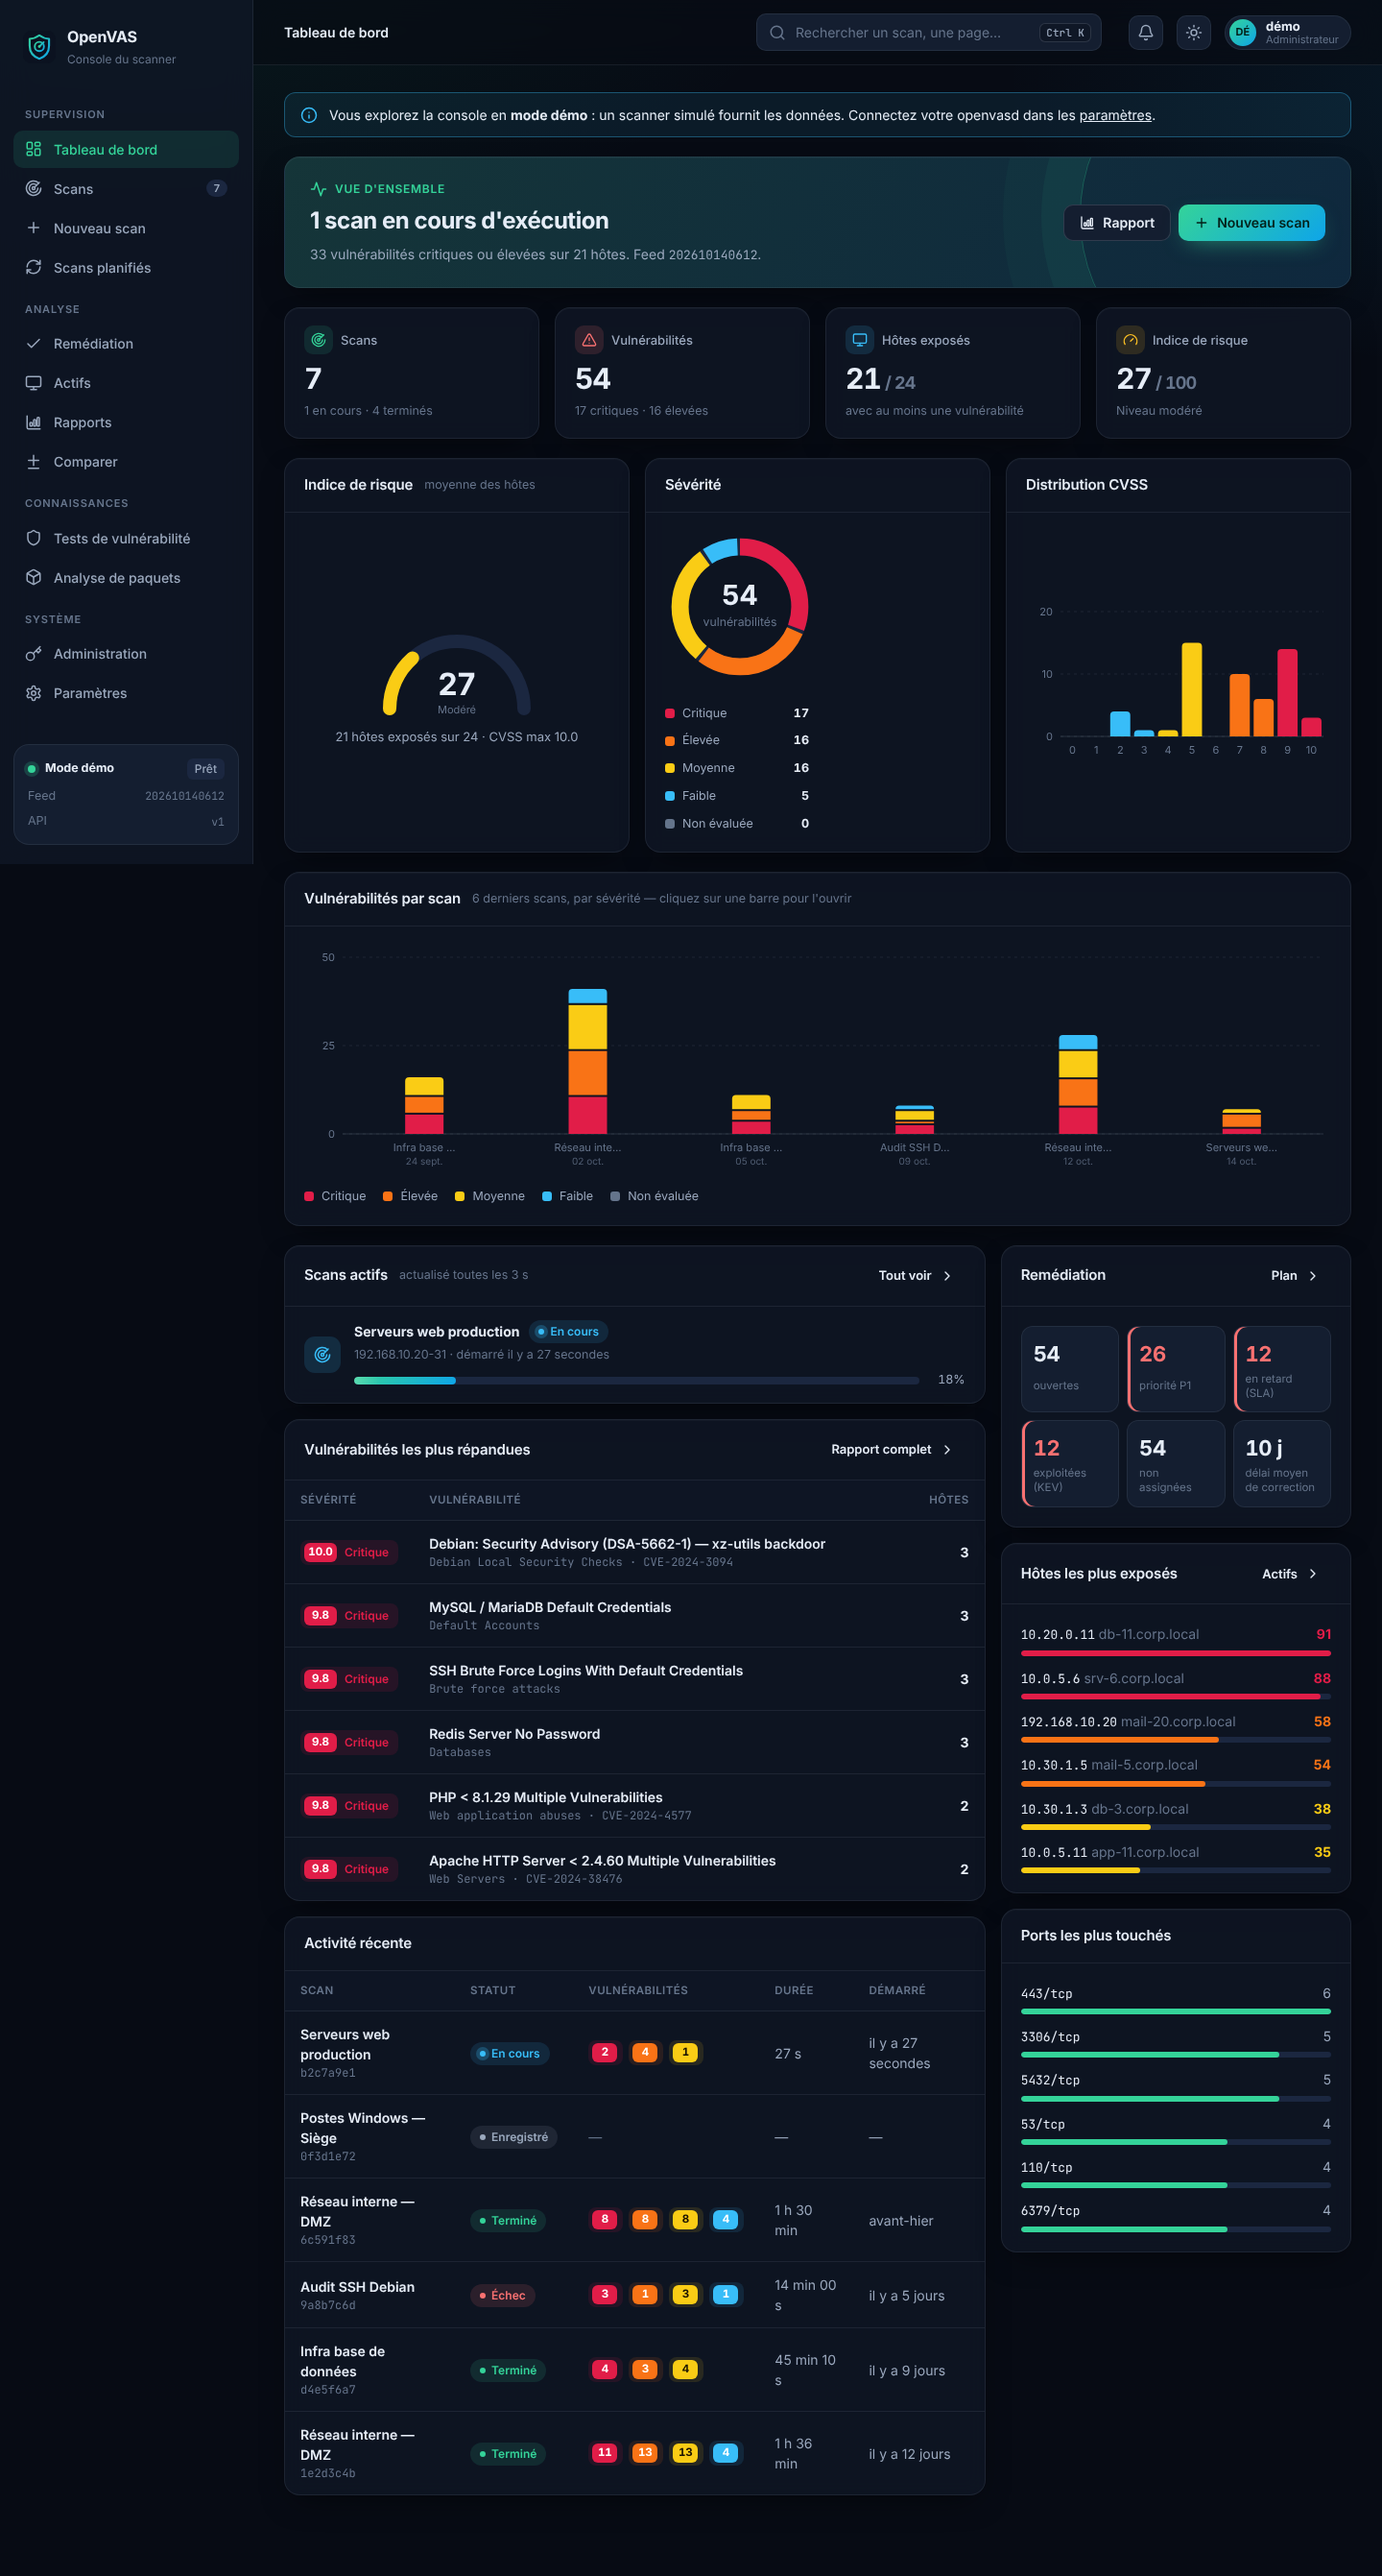
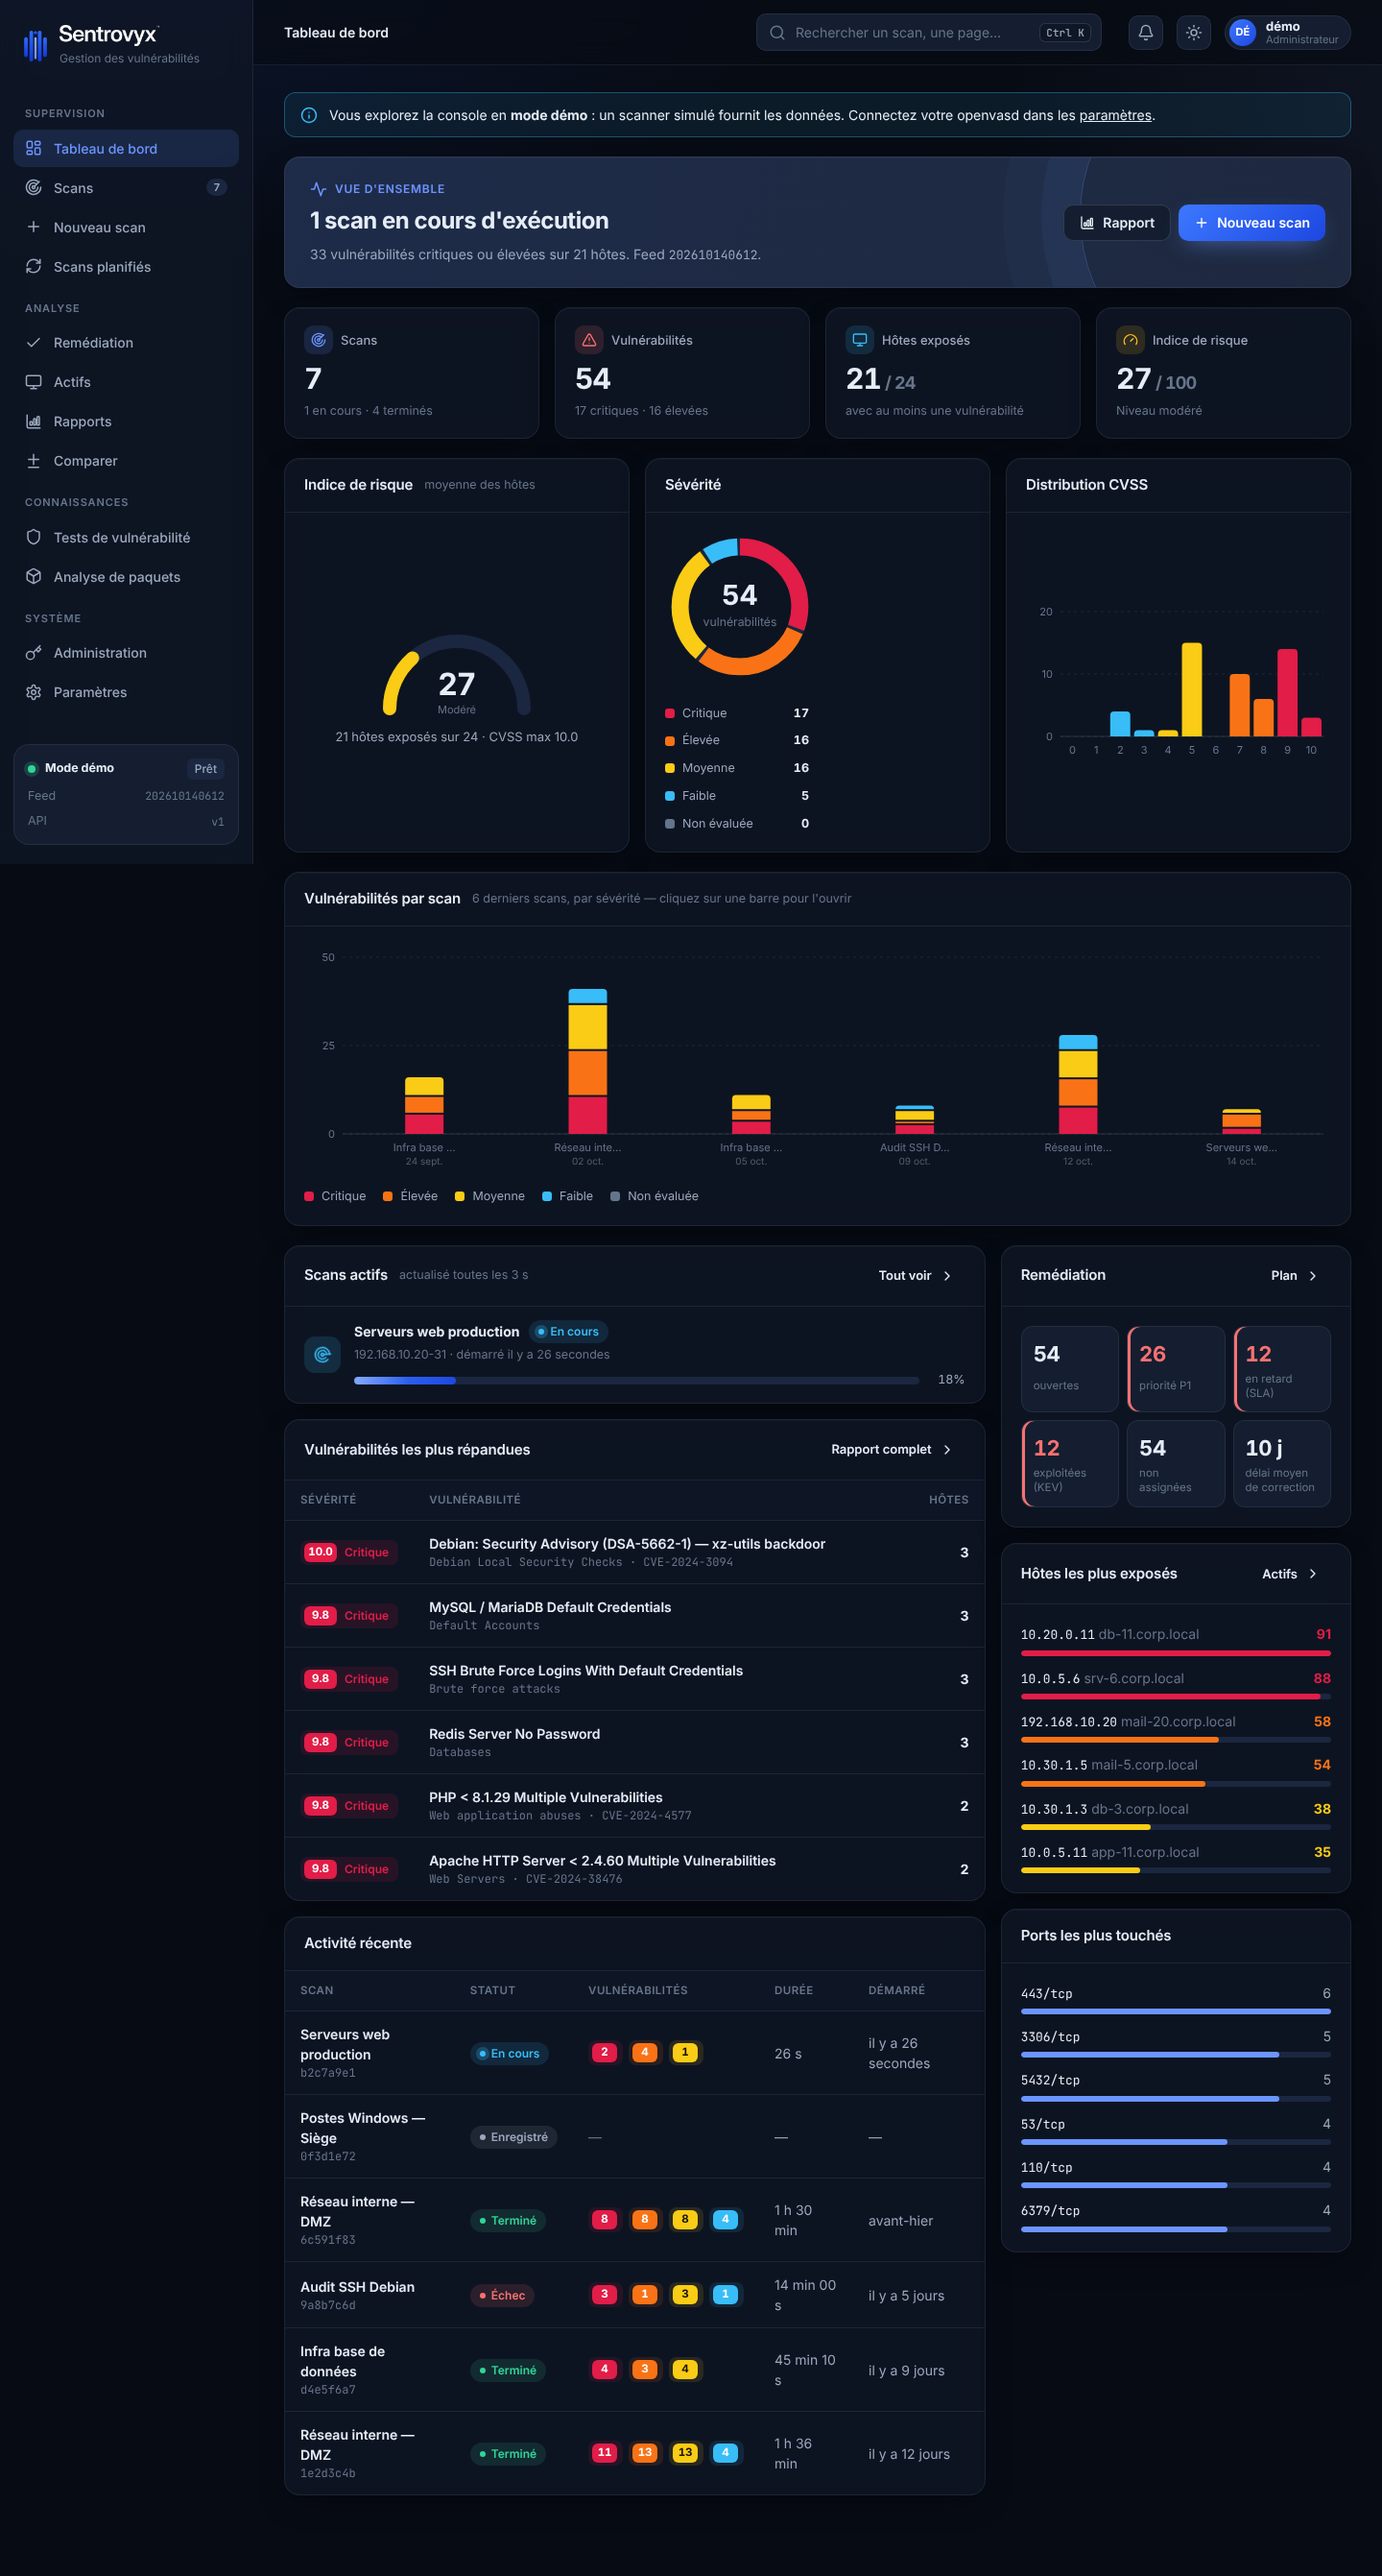
Rebrand the console as Sentrovyx
- Logo assets in public/brand: the icon redrawn as SVG from the supplied
  artwork, horizontal and vertical lockups for light and dark
  backgrounds using the original wordmark, and a new favicon; the
  supplied files are kept in docs/brand.
- Logo in the sidebar, on the login screen and at the top of printed
  reports; page titles, browser notifications, webhook alerts and server
  logs now say Sentrovyx.
- Accent colours move from green to the brand blue in both themes and
  in print; status colours (ok, warning, danger) are unchanged.
- README presents Sentrovyx, powered by the OpenVAS scanner. The folder
  keeps its name so existing installs (systemd unit, paths) still work.

Claude-Session: https://claude.ai/code/session_013CwpT7TXBPz7bU1B8FqotN

diff --git a/openvas-console/public/css/app.css b/openvas-console/public/css/app.css
@@ -3,8 +3,8 @@
 :root {
   color-scheme: dark;
   --bg: #070b14;
-  --bg-grad: radial-gradient(1200px 600px at 10% -10%, rgba(16, 185, 129, 0.10), transparent 60%),
-    radial-gradient(900px 500px at 110% 10%, rgba(14, 165, 233, 0.09), transparent 60%);
+  --bg-grad: radial-gradient(1200px 600px at 10% -10%, rgba(47, 107, 255, 0.13), transparent 60%),
+    radial-gradient(900px 500px at 110% 10%, rgba(143, 176, 255, 0.07), transparent 60%);
   --surface: rgba(17, 24, 39, 0.72);
   --surface-solid: #0f1726;
   --surface-2: #141e30;
@@ -14,11 +14,11 @@
   --text: #e6edf7;
   --text-2: #9aa8bd;
   --text-3: #66758c;
-  --accent: #34d399;
-  --accent-2: #0ea5e9;
-  --accent-ink: #032019;
-  --accent-soft: rgba(52, 211, 153, 0.12);
-  --grad: linear-gradient(135deg, #34d399, #0ea5e9);
+  --accent: #6b95ff;
+  --accent-2: #8fb0ff;
+  --accent-ink: #ffffff;
+  --accent-soft: rgba(91, 140, 255, 0.15);
+  --grad: linear-gradient(135deg, #3d78ff, #1d47e0);
   --ok: #34d399;
   --info: #38bdf8;
   --warn: #fbbf24;
@@ -39,8 +39,8 @@
 :root[data-theme="light"] {
   color-scheme: light;
   --bg: #f4f6fb;
-  --bg-grad: radial-gradient(1200px 600px at 10% -10%, rgba(16, 185, 129, 0.10), transparent 60%),
-    radial-gradient(900px 500px at 110% 10%, rgba(14, 165, 233, 0.08), transparent 60%);
+  --bg-grad: radial-gradient(1200px 600px at 10% -10%, rgba(47, 107, 255, 0.10), transparent 60%),
+    radial-gradient(900px 500px at 110% 10%, rgba(143, 176, 255, 0.10), transparent 60%);
   --surface: rgba(255, 255, 255, 0.85);
   --surface-solid: #ffffff;
   --surface-2: #f1f4f9;
@@ -50,11 +50,11 @@
   --text: #0f172a;
   --text-2: #475569;
   --text-3: #8391a7;
-  --accent: #059669;
-  --accent-2: #0284c7;
+  --accent: #1f4fe6;
+  --accent-2: #4f7dff;
   --accent-ink: #ffffff;
-  --accent-soft: rgba(5, 150, 105, 0.10);
-  --grad: linear-gradient(135deg, #10b981, #0284c7);
+  --accent-soft: rgba(31, 79, 230, 0.09);
+  --grad: linear-gradient(135deg, #2f6bff, #1238d7);
   --ok: #059669;
   --info: #0284c7;
   --warn: #b45309;
@@ -102,6 +102,12 @@ code, .mono { font-family: var(--mono); font-size: 0.92em; }
   transition: transform 0.25s ease;
 }
 .brand { display: flex; align-items: center; gap: 12px; padding: 6px 10px 18px; }
+.brand-icon { flex: none; }
+.brand-text { display: grid; gap: 4px; }
+.wordmark { display: block; height: 22px; width: auto; }
+.wm-dark { display: none; }
+:root:not([data-theme="light"]) .wm-light { display: none; }
+:root:not([data-theme="light"]) .wm-dark { display: block; }
 .brand strong { display: block; font-size: 16px; letter-spacing: -0.01em; }
 .brand small { color: var(--text-3); font-size: 12px; }
 .nav { display: grid; gap: 2px; overflow-y: auto; min-height: 0; align-content: start; }
@@ -498,7 +504,7 @@ th.sorted { color: var(--accent); }
   :root, :root[data-theme] {
     color-scheme: light; --bg: #fff; --surface: #fff; --surface-solid: #fff; --surface-2: #f1f4f9; --surface-3: #e7ecf4;
     --border: rgba(15, 23, 42, 0.1); --border-strong: rgba(15, 23, 42, 0.18); --text: #0f172a; --text-2: #475569; --text-3: #8391a7;
-    --sev-critical: #be123c; --sev-low: #0284c7; --accent: #059669;
+    --sev-critical: #be123c; --sev-low: #0284c7; --accent: #1f4fe6; --accent-2: #4f7dff; --accent-soft: rgba(31, 79, 230, 0.09);
   }
   .hero { background: #fff !important; }
   .hero::after { display: none; }
@@ -508,6 +514,9 @@ th.sorted { color: var(--accent); }
   .view { padding: 0; max-width: none; animation: none; }
   .card { box-shadow: none; backdrop-filter: none; background: #fff; border-color: #dde3ec; break-inside: avoid; }
   .report-only { display: block; }
+  .wm-light { display: block !important; }
+  .wm-dark { display: none !important; }
+  .report-logo img { height: 72px; }
   .grid { gap: 12px; }
 }
 
@@ -517,6 +526,10 @@ th.sorted { color: var(--accent); }
 .login-screen { position: fixed; inset: 0; z-index: 300; display: grid; place-items: center; padding: 16px; background: var(--bg-grad), var(--bg); }
 body.locked .shell { display: none; }
 .login-card { width: min(400px, 100%); display: grid; gap: 16px; padding: 32px 28px; border-radius: 22px; background: var(--surface-solid); border: 1px solid var(--border-strong); box-shadow: 0 30px 80px -24px rgba(0, 0, 0, 0.55); }
+.report-logo { margin-bottom: 14px; }
+.report-logo img { height: 64px; width: auto; margin-left: -8px; }
+.login-logo { display: grid; place-items: center; padding: 4px 0 6px; }
+.login-logo img { width: 190px; height: auto; }
 .login-card h1 { margin: 6px 0 0; font-size: 22px; letter-spacing: -0.02em; }
 .login-card p { margin: -6px 0 0; }
 .login-error { padding: 10px 12px; border-radius: 10px; color: var(--danger); background: color-mix(in srgb, var(--danger) 12%, transparent); font-weight: 500; }

diff --git a/openvas-console/public/js/app.js b/openvas-console/public/js/app.js
@@ -94,7 +94,7 @@ async function render() {
   $("#crumbs").innerHTML = route.parent
     ? `<a href="#/${route.parent}">${ROUTES[route.parent].title}</a>${icon("chevron")}<b>${esc(route.title)}</b>`
     : `<b>${esc(route.title)}</b>`;
-  document.title = `${route.title} · OpenVAS Console`;
+  document.title = `${route.title} · Sentrovyx`;
   const root = $("#view");
   root.innerHTML = "";
   root.onclick = root.oninput = root.onchange = root.onsubmit = null;
@@ -160,7 +160,7 @@ async function watchScans() {
         const name = labels.get(id).name || `Scan ${id.slice(0, 8)}`;
         toast(`Scan ${DONE[st]}`, name, st === "succeeded" ? "ok" : "error");
         if (settings.notify && "Notification" in window && Notification.permission === "granted") {
-          const n = new Notification(`OpenVAS — scan ${DONE[st]}`, { body: name, icon: "favicon.svg", tag: id });
+          const n = new Notification(`Sentrovyx — scan ${DONE[st]}`, { body: name, icon: "favicon.svg", tag: id });
           n.onclick = () => {
             window.focus();
             navigate(`scans/${encodeURIComponent(id)}`);
@@ -180,7 +180,10 @@ function showLogin(message) {
   const el = document.createElement("div");
   el.className = "login-screen";
   el.innerHTML = `<form class="login-card" autocomplete="on">
-      <div class="brand" style="padding:0 0 8px"><img src="favicon.svg" alt="" width="40" height="40" /><span><strong>OpenVAS</strong><small>Console de l'équipe SSI</small></span></div>
+      <div class="login-logo">
+        <img class="wm-light" src="brand/sentrovyx-vertical.svg" alt="Sentrovyx" />
+        <img class="wm-dark" src="brand/sentrovyx-vertical-dark.svg" alt="Sentrovyx" />
+      </div>
       <h1>Connexion</h1>
       <p class="muted">${esc(message || "Identifiez-vous pour accéder aux scans et au plan de remédiation.")}</p>
       <label class="field"><span>Utilisateur</span><input class="input" name="username" autocomplete="username" required autofocus /></label>

diff --git a/openvas-console/public/index.html b/openvas-console/public/index.html
@@ -3,8 +3,8 @@
   <head>
     <meta charset="utf-8" />
     <meta name="viewport" content="width=device-width, initial-scale=1" />
-    <title>OpenVAS Console</title>
-    <meta name="description" content="Console web moderne pour le scanner de vulnérabilités OpenVAS (openvasd)." />
+    <title>Sentrovyx</title>
+    <meta name="description" content="Sentrovyx — gestion des vulnérabilités pour les équipes SSI, propulsée par le scanner OpenVAS." />
     <link rel="icon" href="favicon.svg" type="image/svg+xml" />
     <link rel="preconnect" href="https://fonts.googleapis.com" />
     <link rel="preconnect" href="https://fonts.gstatic.com" crossorigin />
@@ -20,11 +20,12 @@
   <body>
     <div class="shell">
       <aside class="sidebar" id="sidebar">
-        <a class="brand" href="#/dashboard">
-          <img src="favicon.svg" alt="" width="34" height="34" />
-          <span>
-            <strong>OpenVAS</strong>
-            <small>Console du scanner</small>
+        <a class="brand" href="#/dashboard" aria-label="Sentrovyx — tableau de bord">
+          <img class="brand-icon" src="brand/sentrovyx-icon.svg" alt="" width="26" height="34" />
+          <span class="brand-text">
+            <img class="wordmark wm-light" src="brand/sentrovyx-wordmark.png" alt="Sentrovyx" height="22" />
+            <img class="wordmark wm-dark" src="brand/sentrovyx-wordmark-dark.png" alt="Sentrovyx" height="22" />
+            <small>Gestion des vulnérabilités</small>
           </span>
         </a>
         <nav class="nav" id="nav"></nav>

diff --git a/openvas-console/public/js/views/reports.js b/openvas-console/public/js/views/reports.js
@@ -57,6 +57,7 @@ export default async function reports(root, scanId) {
     ${catalogNotice(agg.sev.none || 0)}
     <section class="card hero" style="margin-bottom:20px">
       <div class="grow">
+        <div class="report-logo"><img class="wm-light" src="brand/sentrovyx-horizontal.svg" alt="Sentrovyx" /><img class="wm-dark" src="brand/sentrovyx-horizontal-dark.svg" alt="Sentrovyx" /></div>
         <div class="eyebrow">${icon("chart")} ${selected ? "Rapport de scan" : "Rapport consolidé"}</div>
         <h1>${esc(title)}</h1>
         <p>Généré le ${dateTime(Date.now() / 1000)} · ${scope.length} scan${scope.length > 1 ? "s" : ""} · feed <span class="mono">${esc(shortFeed(info?.feedVersion))}</span></p>

diff --git a/openvas-console/README.md b/openvas-console/README.md
@@ -1,10 +1,16 @@
-# OpenVAS Console
+<p align="center"><img src="public/brand/sentrovyx-vertical.svg" alt="Sentrovyx" width="300" /></p>
 
-Interface web moderne pour [openvas-scanner](https://github.com/greenbone/openvas-scanner).
+# Sentrovyx
+
+Plateforme de gestion des vulnérabilités pour les équipes SSI / SOC, propulsée par le scanner
+open source [OpenVAS](https://github.com/greenbone/openvas-scanner).
 
 `openvas-scanner` n'a pas d'interface graphique : c'est le moteur de scan, piloté par l'API REST
-**openvasd** (`rust/api/openapi.yml`). Cette console se branche directement sur cette API :
-elle ne modifie pas le scanner, elle en devient l'interface.
+**openvasd** (`rust/api/openapi.yml`). Sentrovyx se branche directement sur cette API :
+il ne modifie pas le scanner, il en devient l'interface.
+
+> Le dossier s'appelle toujours `openvas-console/` pour ne pas casser les installations existantes
+> (service systemd, chemins).
 
 ![Tableau de bord](docs/dashboard.png)
 
@@ -94,6 +100,12 @@ quelques minutes la première fois ; l'état est visible dans **Paramètres**.
 
 - Pour lister tous les scans, lancez openvasd avec `--enable-get-scans`. Sans cette option, la console n'affiche que les scans créés depuis ce navigateur.
 - Le nom d'un scan n'existe pas dans l'API : il est enregistré localement, dans le navigateur.
+
+## Identité visuelle
+
+Les logos sont dans `public/brand/` (SVG, versions pour fond clair et fond sombre) :
+`sentrovyx-icon.svg`, `sentrovyx-horizontal(-dark).svg`, `sentrovyx-vertical(-dark).svg`.
+Les fichiers d'origine sont dans `docs/brand/`.
 
 ## Structure
 
